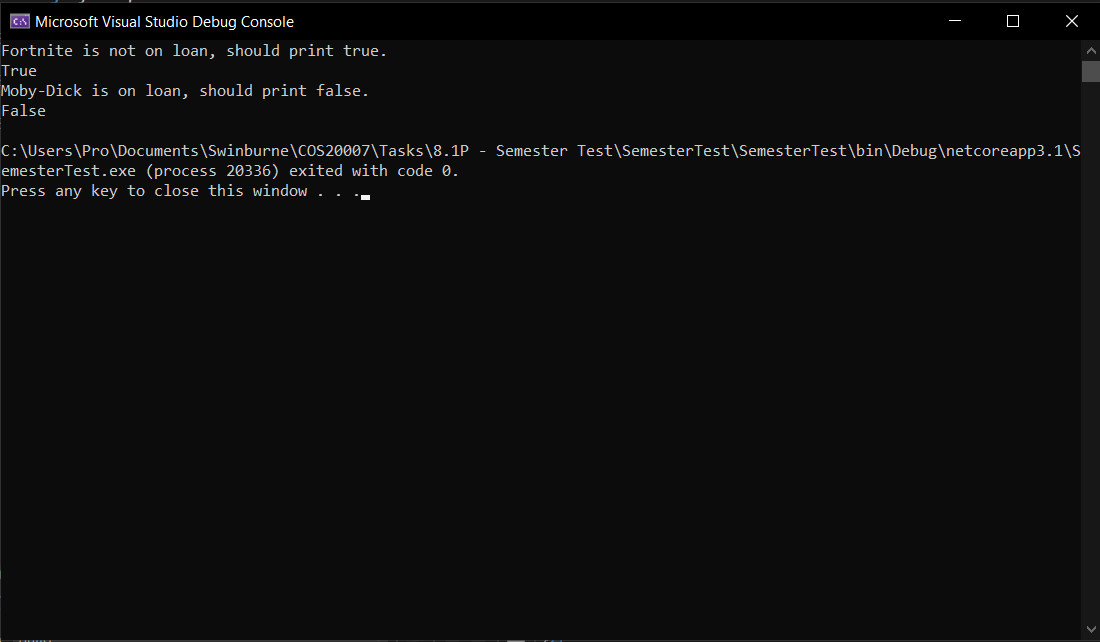
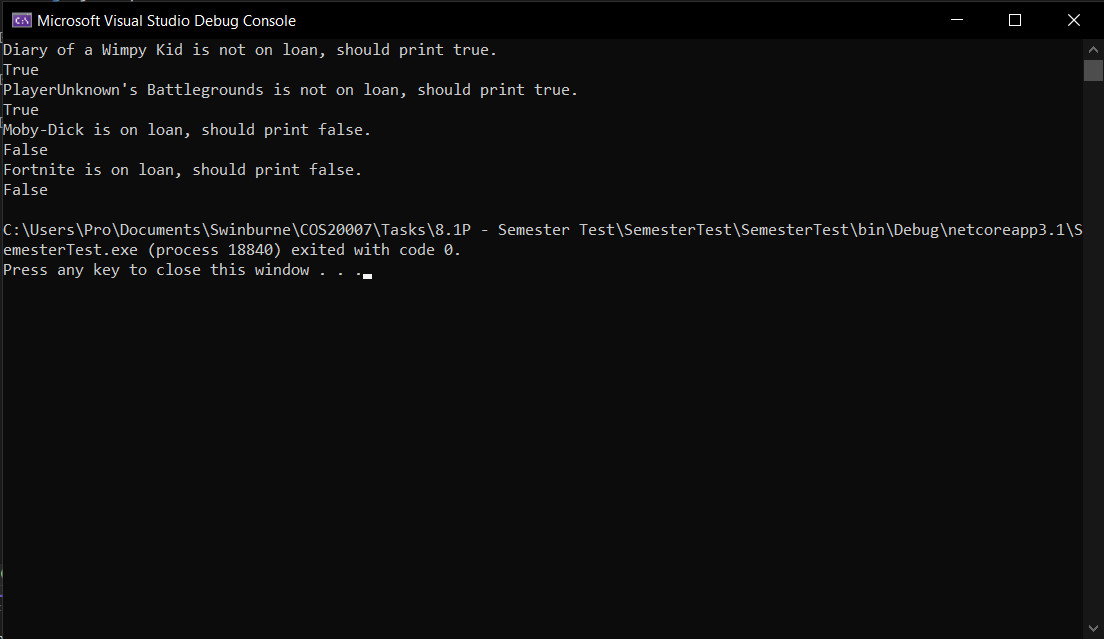
fix semester test

diff --git a/8.1P - Semester Test/SemesterTest/SemesterTest/Program.cs b/8.1P - Semester Test/SemesterTest/SemesterTest/Program.cs
@@ -7,23 +7,34 @@ namespace SemesterTest
         static void Main(string[] args)
         {
             Library library = new Library("Swinburne Library");
-            Game pubg = new Game("PlayerUnknown's Battlegrounds", "KRAFTON, PUBG Corporation", "4/5");
-            Game fn = new Game("Fortnite", "Epic Games, People Can Fly", "3/5");
-            Book doawk = new Book("Diary of a Wimpy Kid", "Jeff Kinney", "1439582637");
-            Book md = new Book("Moby-Dick", "Herman Melville", "1503280780");
+            Book book1 = new Book("Diary of a Wimpy Kid", "Jeff Kinney", "1439582637");
+            Book book2 = new Book("Moby-Dick", "Herman Melville", "1503280780");
+            Game game1 = new Game("PlayerUnknown's Battlegrounds", "KRAFTON, PUBG Corporation", "4/5");
+            Game game2 = new Game("Fortnite", "Epic Games, People Can Fly", "3/5");
 
-            library.AddResource(pubg);
-            library.AddResource(fn);
-            library.AddResource(doawk);
-            library.AddResource(md);
+            library.AddResource(book1);
+            library.AddResource(book2);
+            library.AddResource(game1);
+            library.AddResource(game2);
 
-            pubg.OnLoan = true;
-            md.OnLoan = true;
+            book1.OnLoan = false;
+            game1.OnLoan = false;
+            
+            book2.OnLoan = true;
+            game2.OnLoan = true;
 
-            Console.WriteLine("Fortnite is not on loan, should print true.");
-            Console.WriteLine(library.HasResource("Fortnite"));
+            Console.WriteLine("Diary of a Wimpy Kid is not on loan, should print true.");
+            Console.WriteLine(library.HasResource("Diary of a Wimpy Kid"));
+
+            Console.WriteLine("PlayerUnknown's Battlegrounds is not on loan, should print true.");
+            Console.WriteLine(library.HasResource("PlayerUnknown's Battlegrounds"));
+
             Console.WriteLine("Moby-Dick is on loan, should print false.");
             Console.WriteLine(library.HasResource("Moby-Dick"));
+
+            Console.WriteLine("Fortnite is on loan, should print false.");
+            Console.WriteLine(library.HasResource("Fortnite"));
+
             Console.ReadKey();
         }
     }
